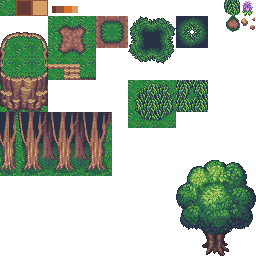
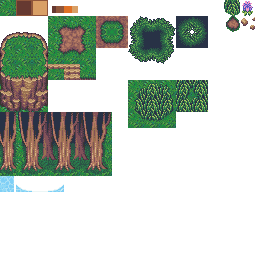
Render water

Changed region(s): [[0.6875, 0.625, 1.0, 1.0], [0.0, 0.6875, 0.125, 0.75], [0.1875, 0.7188, 0.25, 0.75]]

diff --git a/core/src/net/alcuria/umbracraft/engine/map/Map.java b/core/src/net/alcuria/umbracraft/engine/map/Map.java
@@ -21,6 +21,7 @@ public class Map implements Disposable {
 	private int[][] altMap, typeMap, overlayTypeMap;
 	private int height;
 	private Array<Layer> layers;
+	private MapDefinition mapDef;
 	private int maxAlt;
 	private String name;
 	private Array<TextureRegion> tiles;
@@ -46,7 +47,7 @@ public class Map implements Disposable {
 		tiles.addAll(getRegions(filename));
 
 		// create alt map from definition
-		final MapDefinition mapDef = Game.db().map(id);
+		mapDef = Game.db().map(id);
 		if (mapDef == null) {
 			throw new NullPointerException("Map not found: " + id);
 		}
@@ -478,6 +479,18 @@ public class Map implements Disposable {
 		}
 	}
 
+	private int getWaterDefinition(int x, int y, int alt) {
+		if (getAltitudeAt(x, y + 1) > alt) {
+			if (getAltitudeAt(x - 1, y + 1) <= alt) {
+				return tilesetDefinition.water + 1;
+			} else if (getAltitudeAt(x + 1, y + 1) <= alt) {
+				return tilesetDefinition.water + 3;
+			}
+			return tilesetDefinition.water + 2;
+		}
+		return tilesetDefinition.water;
+	}
+
 	public int getWidth() {
 		return width;
 	}
@@ -494,11 +507,12 @@ public class Map implements Disposable {
 	 * @param xOffset the camera offset in tiles, to ensure we only render tiles
 	 *        visible in the x axis */
 	public void render(int row, int xOffset) {
+		//		row = 1;
 		final int tileSize = Config.tileWidth;
 		if (layers == null) {
 			return;
 		}
-
+		mapDef.waterLevel = 1.5f;
 		for (int i = xOffset, n = xOffset + Config.viewWidth / Config.tileWidth + 1; i < n; i++) {
 			int alt = getAltitudeAt(i, row);
 			Tile[][] data = null;
@@ -527,6 +541,9 @@ public class Map implements Disposable {
 					//FIXME: Halp. someting up with rendering very top and very bottom rows.
 					//Game.log("render oob " + i + " " + j + " " + row);
 				}
+			}
+			if (mapDef.waterLevel > alt) {
+				Game.batch().draw(tiles.get(getWaterDefinition(i, row, alt)), (i * tileSize), (row * tileSize + mapDef.waterLevel * tileSize), tileSize, tileSize);
 			}
 		}
 	}

diff --git a/core/src/net/alcuria/umbracraft/definitions/map/MapDefinition.java b/core/src/net/alcuria/umbracraft/definitions/map/MapDefinition.java
@@ -1,5 +1,6 @@
 package net.alcuria.umbracraft.definitions.map;
 
+import net.alcuria.umbracraft.annotations.Tooltip;
 import net.alcuria.umbracraft.definitions.Definition;
 
 import com.badlogic.gdx.utils.Array;
@@ -17,6 +18,8 @@ public class MapDefinition extends Definition {
 	public String name;
 	/** The map tiles */
 	public Array<Array<MapTileDefinition>> tiles;
+	@Tooltip("The default level of the water, in tiles. Floating-point.")
+	public float waterLevel = 1;
 	/** The width of the map */
 	private int width;
 

diff --git a/core/src/net/alcuria/umbracraft/engine/entities/EntityManager.java b/core/src/net/alcuria/umbracraft/engine/entities/EntityManager.java
@@ -135,7 +135,7 @@ public class EntityManager {
 		}
 
 		// render our overlays last
-		Game.map().renderOverlays(x + ENTITY_TILE_PAD, y - 4); // FIXME: required for the overlays since they're drawn 4 tiles up?
+		Game.map().renderOverlays(x + ENTITY_TILE_PAD, y - ENTITY_TILE_PAD); // FIXME: required for the overlays since they're drawn 4 tiles up?
 		visibleEntities.clear();
 	}
 

diff --git a/core/src/net/alcuria/umbracraft/definitions/tileset/TilesetDefinition.java b/core/src/net/alcuria/umbracraft/definitions/tileset/TilesetDefinition.java
@@ -39,6 +39,8 @@ public class TilesetDefinition extends Definition {
 	public int treeWall;
 	@Tooltip("The bottom center wall/cliffside id")
 	public int wall;
+	@Tooltip("The water tile")
+	public int water;
 
 	@Override
 	public String getName() {
